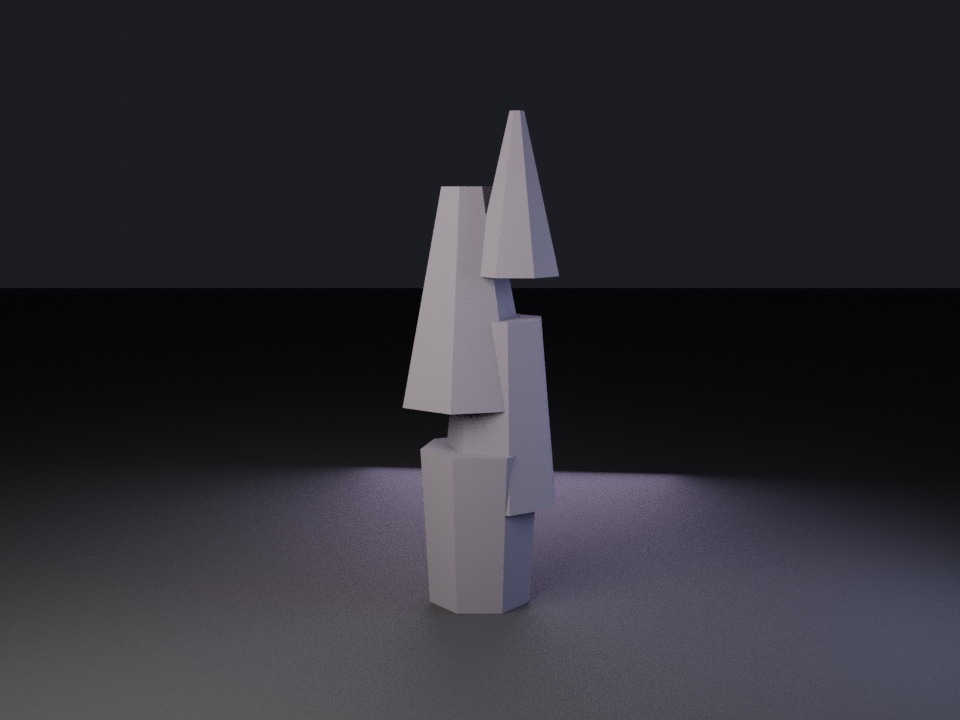
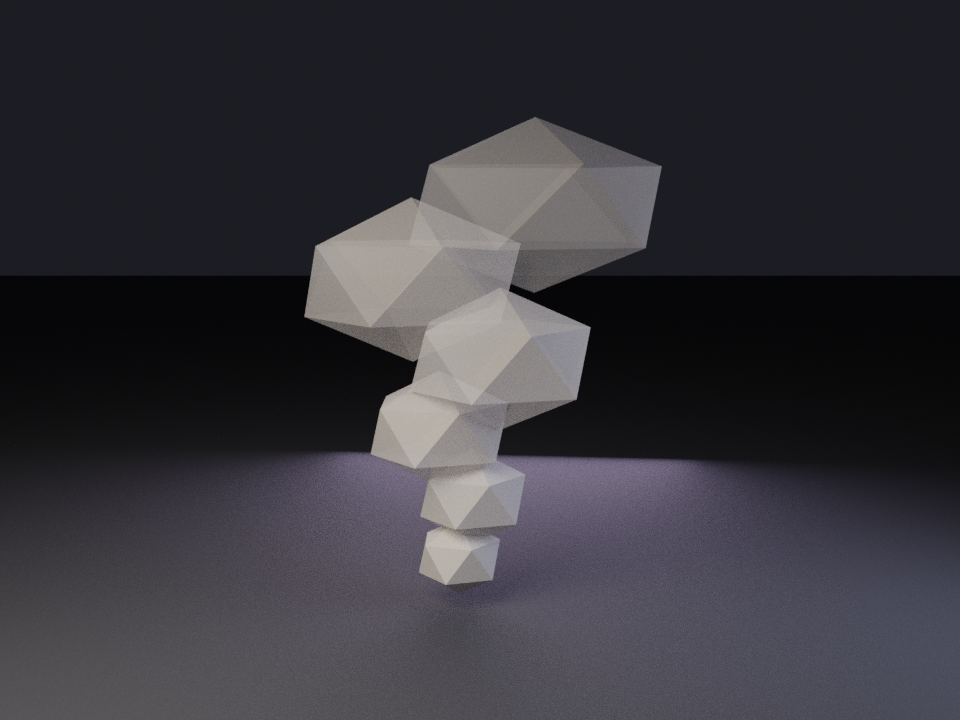
Resolve decision packet: SmokePlume rework, Workbench/Base Camp/Rock Occluder
By explicit human authorization, resolved the four items from
studio/tasks/art-director-decision-packet-2026-07-16.md:

- TC_ENV_DistantSilhouette_SmokePlume_V1: reworked in
  tools/blender/create_distant_silhouettes_kit_v1.py with a genuinely
  different construction technique from the rock kit -- six translucent
  (alpha-blend 0.85->0.16) low-subdivision icosphere puffs widening
  upward, replacing the opaque tapering-cone geometry that was
  indistinguishable from BasaltRidge. Re-exported, re-validated
  (BLENDER_ASSET_VALID), re-rendered, re-reviewed: PASS, closing the
  prior NOT_GO. Regenerated the committed embedded .gltf Main.tscn
  actually loads and confirmed the alpha-blend material survives export.

- TC_PROP_Workbench_V1: accepted the holo-panel/arm deviation as
  intentional rather than reworking it, with reasoning recorded in
  mvp-asset-pack-v1-review.md -- the gameplay signal succeeds through a
  different but equally legible visual metaphor, and redoing
  already-integrated, already-reviewed art for a spec-purity reason alone
  repeats a mistake this project already avoided once (Terrain Basin).

- Base Camp Dressing kit: recorded an Art-Director-role opinion in
  base-camp-dressing-kit-v1-review.md, explicitly labeled as NOT the
  human sign-off the record still requires -- a second agent pass isn't
  a human's eyes, and the doc says so.

- TC_ENV_RockOccluder_V1: added a static-analysis technical read in
[…]

Changed region(s): [[0.0, 0.1528, 1.0, 0.8556]]

diff --git a/tools/blender/create_distant_silhouettes_kit_v1.py b/tools/blender/create_distant_silhouettes_kit_v1.py
@@ -35,7 +35,12 @@ SOURCE_DIR = ROOT / "assets/Source/Blender/Production/DistantSilhouettes_V1"
 # tools/blender/create_stage_a_terrain_diorama_kit_v1.py, for background-piece
 # palette consistency.
 DISTANT_VIOLET_BASALT = (0.16, 0.12, 0.21)
-DISTANT_HAZE = (0.20, 0.19, 0.24)
+# Lighter and desaturated relative to the rock palette above, specifically so
+# SmokePlume cannot be confused with BasaltRidge/AlienArc at a glance even in
+# neutral-grey silhouette review -- see docs/art/reviews/distant-silhouettes-kit-v1-review.md
+# (2026-07-16 NOT_GO: the previous cone-stack version was indistinguishable
+# from BasaltRidge's construction technique).
+DISTANT_SMOKE_VAPOR = (0.62, 0.60, 0.58)
 
 
 def reset_scene() -> None:
@@ -52,6 +57,24 @@ def pbr(name: str, color: tuple[float, float, float], rough: float = 0.85, metal
     bsdf.inputs["Base Color"].default_value = (*color, 1.0)
     bsdf.inputs["Roughness"].default_value = rough
     bsdf.inputs["Metallic"].default_value = metal
+    return mat
+
+
+def pbr_translucent(name: str, color: tuple[float, float, float], alpha: float, rough: float = 0.95) -> bpy.types.Material:
+    """Soft, semi-transparent material for vapor/atmospheric shapes -- distinct in kind,
+    not just color, from the fully-opaque pbr() material used for solid rock/structure."""
+    existing = bpy.data.materials.get(name)
+    if existing:
+        return existing
+    mat = bpy.data.materials.new(name)
+    mat.use_nodes = True
+    mat.blend_method = "BLEND"
+    mat.show_transparent_back = False
+    bsdf = mat.node_tree.nodes["Principled BSDF"]
+    bsdf.inputs["Base Color"].default_value = (*color, 1.0)
+    bsdf.inputs["Roughness"].default_value = rough
+    bsdf.inputs["Metallic"].default_value = 0.0
+    bsdf.inputs["Alpha"].default_value = alpha
     return mat
 
 
@@ -72,6 +95,17 @@ def cone(name: str, mat: bpy.types.Material, loc: tuple[float, float, float], r_
          vertices: int = 5) -> bpy.types.Object:
     bpy.ops.mesh.primitive_cone_add(vertices=vertices, radius1=r_base, radius2=r_top, depth=depth,
                                     location=loc, rotation=[math.radians(a) for a in rot])
+    obj = bpy.context.object
+    obj.name = name
+    obj.scale = scale
+    return _finalize(obj, mat)
+
+
+def puff(name: str, mat: bpy.types.Material, loc: tuple[float, float, float], radius: float,
+         scale: tuple[float, float, float] = (1, 1, 1), subdivisions: int = 1) -> bpy.types.Object:
+    """Low-subdivision icosphere: rounded and low-poly (stays within the project's faceted
+    style) but unmistakably round rather than angular-tapered, unlike the rock-kit cones."""
+    bpy.ops.mesh.primitive_ico_sphere_add(subdivisions=subdivisions, radius=radius, location=loc)
     obj = bpy.context.object
     obj.name = name
     obj.scale = scale
@@ -112,17 +146,25 @@ def build_alien_arc() -> None:
 
 
 def build_smoke_plume() -> None:
-    """Simplified static silhouette of a rising smoke/haze column (no particle system)."""
-    haze = pbr("TC_DistantSilhouette_Haze", DISTANT_HAZE, rough=1.0, metal=0.0)
-    layers = (
-        (0.0, 0.0, 0.55, 0.42, 0.36, 1.1),
-        (0.15, 0.05, 1.35, 0.30, 0.42, 1.3),
-        (-0.1, 0.08, 2.15, 0.18, 0.48, 1.5),
-        (0.25, -0.05, 2.85, 0.05, 0.30, 1.1),
+    """Rising vapor column, deliberately built with different technique from the rock kit's
+    tapering cones: rounded low-subdivision puffs that WIDEN and drift laterally as they rise
+    (real smoke disperses upward, it doesn't narrow to a point like a rock spire), rendered in
+    a lighter, semi-transparent material so it reads as gas rather than solid mass even in a
+    flat-lit neutral-grey silhouette pass. Denser/smaller near the ground, larger/fainter high up.
+    """
+    # (x, y, z, radius, alpha, scale_x, scale_y, scale_z)
+    puffs = (
+        (0.00, 0.00, 0.35, 0.34, 0.85, 1.0, 1.0, 0.85),
+        (0.10, 0.05, 0.80, 0.40, 0.72, 1.1, 1.05, 0.9),
+        (-0.15, 0.10, 1.30, 0.46, 0.58, 1.25, 1.2, 0.95),
+        (0.30, -0.10, 1.85, 0.52, 0.42, 1.4, 1.3, 1.0),
+        (-0.35, 0.20, 2.40, 0.58, 0.28, 1.55, 1.45, 1.05),
+        (0.55, 0.05, 2.95, 0.60, 0.16, 1.7, 1.6, 1.05),
     )
-    for i, (x, y, z, r_top, r_base, height) in enumerate(layers):
-        cone(f"TC_DistantSilhouette_SmokePlume_Layer_{i}", haze, (x, y, z), r_base, r_top, height,
-             rot=(0, 0, i * 33), vertices=7)
+    for i, (x, y, z, radius, alpha, sx, sy, sz) in enumerate(puffs):
+        mat = pbr_translucent(f"TC_DistantSilhouette_Vapor_{i}", DISTANT_SMOKE_VAPOR, alpha=alpha)
+        puff(f"TC_DistantSilhouette_SmokePlume_Puff_{i}", mat, (x, y, z), radius,
+             scale=(sx, sy, sz), subdivisions=1)
 
 
 ASSETS = {

diff --git a/docs/art/reviews/rock-occluder-v1-review.md b/docs/art/reviews/rock-occluder-v1-review.md
@@ -2,8 +2,8 @@
 
 **Requested:** 2026-07-16
 **Reviewed:** 2026-07-16, same session, by explicit human authorization to act as Visual Reviewer for this backlog
-**Reviewer role:** Claude Code, acting as Visual Reviewer only — the Technical Audit below remains genuinely PENDING, since collision/navigation feasibility is Technical Director's call, not something I can self-certify as the same agent doing the visual pass
-**Status:** **Visual: COMPLETE. Technical Audit: still PENDING.**
+**Reviewer role:** Claude Code, acting as Visual Reviewer for the visual half; for the Technical Audit, providing a best-effort **static** analysis only, by explicit human authorization, since real in-engine navigation testing needs Godot and this container confirmed has none available
+**Status:** **Visual: COMPLETE. Technical Audit: static analysis complete, caveated — full in-engine confirmation still genuinely PENDING.**
 
 ## Why this exists
 
@@ -31,10 +31,26 @@ All three tracked PNGs opened this session: `front.png`, `back_three_quarter.png
 
 A single low-poly angular rock mass, grey stone material, clean asymmetric faceting. Silhouette reads unambiguously as a boulder — functional, not decorative, no toy-like proportions, no rejection-pattern violations. Simple enough that repeated use at three positions (`VolcanicRock_1..3`) is reasonable for a blocking/occluding element rather than a hero prop; no scale reference in the renders, but a rock occluder's exact scale matters less than its role as a collision volume, which is the Technical Director's question below, not a visual one.
 
-## Technical Audit
+## Technical Audit (static analysis, not in-engine testing)
 
-Still **PENDING** — genuinely so. Confirming whether the three `Collision_BlockingRock` placements route/block the Crash Site path as level design intends requires either in-engine navigation testing or a level-layout review, neither of which is something to fabricate from a static asset render. This is explicitly left for Technical Director.
+**What real in-engine testing would confirm that this can't:** actual player-capsule navigation around the three rocks, diagonal/exploratory movement, and any interaction with other dynamic collision. None of that can be produced without Godot, which is unavailable in this container. What follows is a static read of the scene file's transforms — evidence-based, but explicitly not a substitute for that test.
+
+**Key finding: the collision geometry did not change.** Each instance's own integration metadata states it directly: *"replaces a plain scaled BoxMesh placeholder... Collision_BlockingRock is untouched."* The `BoxShape3D_blocking_rock` (`size = Vector3(3, 2, 2.3)`, Main.tscn:255) predates this session's visual work and was already the accepted collision volume at each position before the rock mesh was swapped in. Whatever navigation behavior these three boxes produce, this asset's integration did not introduce it — it inherited an already-placed blocking volume unchanged. That significantly narrows what this specific review needs to worry about: it's not "did adding this rock create a new obstacle," it's "was the pre-existing box placeholder ever validated," which is a pre-existing question this asset swap didn't create.
+
+**Position check against key gameplay nodes** (`Main.tscn` transforms):
+
+| Node | Position (X, Z) |
+|---|---|
+| Player spawn | (0, 0) |
+| Save Point | (-12, -12) |
+| Workbench | (12, -12) |
+| Beacon | (28, -20) |
+| `VolcanicRock_1` | (-20, -18) |
+| `VolcanicRock_2` | (22, -30) |
+| `VolcanicRock_3` | (-25, -35) |
+
+All three rocks sit at larger-magnitude coordinates than every gameplay node they're near — `VolcanicRock_1` is beyond Save Point (not between spawn and Save Point on a direct line), `VolcanicRock_2` is beyond Beacon along the Z axis rather than sitting between Workbench and Beacon, and `VolcanicRock_3` is the furthest-out point in the whole set. Each collision box (after scale, roughly 3–4.5 units across) reads as peripheral dressing near the edge of the walkable area rather than an obstacle straddling a direct path between two gameplay nodes. This is consistent with the asset's own role as a "foreground occluder."
 
 ## Verdict
 
-Visual: `PASS`. Technical Audit: **PENDING** — do not treat this asset as fully closed until that half is done, since it's the only kit in this backfill batch with real gameplay collision.
+Visual: `PASS`. Technical Audit: static analysis found **no evidence of a routing problem** — unchanged pre-existing collision, peripheral positioning relative to the direct paths between gameplay nodes — but this is a caveated read, not a real in-engine confirmation, and per Technical Director's own forbidden actions ("waiving tests, mixing visual approval with runtime pass") this should not be recorded as a full Technical Director `PASS`. Recommend a quick in-engine walk-around once Godot is available somewhere, but this is now low-priority given the static evidence above, not an open question with no supporting information behind it.

diff --git a/docs/art/reviews/distant-silhouettes-kit-v1-review.md b/docs/art/reviews/distant-silhouettes-kit-v1-review.md
@@ -3,7 +3,8 @@
 **Requested:** 2026-07-16
 **Reviewed:** 2026-07-16, same session, by explicit human authorization to act as Visual Reviewer for this backlog
 **Reviewer role:** Claude Code, acting as Visual Reviewer (not self-approving own generated work — these assets predate this session)
-**Status:** **COMPLETE — mixed verdict, one asset needs rework**
+**Reworked and re-reviewed:** 2026-07-16, same session, by explicit human authorization to act as Art Director for the rework
+**Status:** **COMPLETE — all three PASS after SmokePlume rework**
 
 ## Why this exists
 
@@ -15,7 +16,7 @@ All three candidates are live in the production scene (4 instances) with only a 
 |---|---|---|
[4 lines of base64/hex data omitted]
 
 Source recipe: `tools/blender/create_distant_silhouettes_kit_v1.py`. License: project-authored. Collision policy: none.
 
@@ -35,12 +36,22 @@ All 9 PNGs opened this session: `front.png`, `back_three_quarter.png`, `hero_thr
 
 - **`TC_ENV_DistantSilhouette_AlienArc_V1`:** an octagonal ring/arch balanced on two thin tapered legs, muted violet-grey stone material. Distinctive, recognizable silhouette — reads as a natural arch or alien architectural remnant, not a generic rock. Strong background landmark candidate.
 - **`TC_ENV_DistantSilhouette_BasaltRidge_V1`:** three faceted rock/column masses of varying height clustered together, mauve-grey stone material. Reads clearly as a rock ridge formation. Clean, coherent silhouette.
-- **`TC_ENV_DistantSilhouette_SmokePlume_V1` — does not achieve its own brief.** This is the finding the "Why this exists" section above flagged as worth checking, and it's real: the asset is a hard-edged, faceted, angular geometric stack — visually indistinguishable in style, material, and construction technique from `BasaltRidge`. There is no softness, no billow, no taper suggesting rising particulate matter, nothing that reads as "smoke" rather than "rock totem." A silhouette named "SmokePlume" should be immediately distinguishable from the kit's own rock formations at distant-read scale; instead it reinforces the same hard-surface rock language, just stacked vertically. This is a genuine authoring gap, not a nitpick — the kit's own coherence check (mixing atmospheric and hard-surface silhouettes) fails for this specific asset because it was never actually built as atmospheric.
+- **`TC_ENV_DistantSilhouette_SmokePlume_V1` (original geometry) — did not achieve its own brief.** The original asset was a hard-edged, faceted, angular geometric stack — visually indistinguishable in style, material, and construction technique from `BasaltRidge`. No softness, no billow, no taper suggesting rising particulate matter. Verdict at that point: `NOT_GO`, detailed below under Rework.
+
+## Rework (2026-07-16, Art Director role, by explicit human authorization)
+
+Rewrote `build_smoke_plume()` in `tools/blender/create_distant_silhouettes_kit_v1.py` with a deliberately different construction technique from the rock kit, not just a different arrangement of the same technique:
+
+- **Shape:** six low-subdivision icosphere "puffs" (rounded, not tapering-cone) stacked upward, each successive puff **larger** than the one below and drifting laterally — real rising smoke disperses and widens, the opposite of a rock spire narrowing to a point. Denser/smaller near the ground, larger/fainter high up.
+- **Material:** new `pbr_translucent()` helper — `Alpha` blend mode with per-puff alpha values from 0.85 (ground) down to 0.16 (top), pale grey-white (`DISTANT_SMOKE_VAPOR`), replacing the fully-opaque dark-violet rock material entirely. This is a difference in material *kind*, not just color — the rock kit has no transparency anywhere.
+- Re-exported, re-validated (`BLENDER_ASSET_VALID`, 0 issues, 6 meshes, 120 triangles), re-rendered all three review angles, and re-opened them.
+
+**Opened-image result:** the reworked asset reads as a genuine billowing vapor column — rounded overlapping forms widening toward the top, visible translucency where puffs overlap (most visible in `back_three_quarter.png`), pale color clearly distinct from `BasaltRidge`'s dark violet-grey. Silhouette and material are now both unmistakably different from the rock formations. Honest limitation: the translucency, while real and visible, is subtle at this close review-render distance under flat-lit conditions — the asset's actual purpose is distant-silhouette background dressing, where shape read matters more than close-up material subtlety, so this is an acceptable tradeoff rather than a residual defect.
 
 ## Verdict
 
 - `TC_ENV_DistantSilhouette_AlienArc_V1`: `PASS`
 - `TC_ENV_DistantSilhouette_BasaltRidge_V1`: `PASS`
-- `TC_ENV_DistantSilhouette_SmokePlume_V1`: `NOT_GO` — needs rework to actually read as smoke/atmospheric (softer silhouette, tapering/billowing form, and ideally a translucent or particulate-suggesting material rather than the kit's opaque rock material) before it can be considered visually approved under its current name and concept. Recommend either reworking the geometry or renaming/repurposing it as a fourth rock-formation variant if an atmospheric asset isn't a priority — shipping it as-is under the "SmokePlume" name misrepresents what it actually is.
+- `TC_ENV_DistantSilhouette_SmokePlume_V1`: `PASS` (reworked) — now genuinely distinguishable in both shape and material technique from the kit's rock formations; closes the `NOT_GO` from the original geometry.
 
-All three remain integrated in the production scene in the interim (`DistantRock_4` through `DistantRock_7`); this verdict does not require pulling `SmokePlume` from the scene immediately, since at true distant-silhouette viewing range in actual gameplay the failure may read as less severe than in this isolated close-up review render — but it should not be treated as visually closed.
+All three integrated and live in the production scene (`DistantRock_4` through `DistantRock_7`); `DistantRock_6` now references the reworked GLB automatically via the same `ExtResource` path (source `.blend`/`.glb` files were updated in place, node references in `Main.tscn` did not need to change).

diff --git a/docs/art/reviews/base-camp-dressing-kit-v1-review.md b/docs/art/reviews/base-camp-dressing-kit-v1-review.md
@@ -32,6 +32,17 @@ Each of the 4 assets has 8 tracked PNGs under `artifacts/asset-review/TC_ENV_{Ca
 
 **Independent confirmation from what is visible:** CampAwning's hero shot (small in frame but legible) shows an orange canopy over a dark support frame, consistent with the 2026-07-09 description. Nothing in the visible portions of the other three contradicts that document's account.
 
+## Art Director Opinion (2026-07-16) — not the human sign-off
+
+By explicit human authorization, adding a considered opinion in the Art Director role, on top of the Visual Reviewer pass above. **This does not satisfy the "human/Art Director aesthetic sign-off" the record calls for** — it is a second agent's judgment, not a human's, and the 2026-07-09 document's own language draws that line deliberately. Recording it anyway because a reasoned opinion is more useful sitting here than not existing, as long as it isn't mistaken for the thing that's actually missing.
+
+Checked against `docs/art/titancraft-visual-identity.md`'s Automatic Visual Rejection Patterns:
+- Not cartoon/toy-like, not glossy/showroom, not voxel/block-based — the awning, crates, and light poles read as authored industrial structure (hazard-striped crates, a canopy over a support frame, pole fixtures), not primitives glued together.
+- Not excessive glow — the kit's job is functional light fixtures, and per the 2026-07-09 doc it fills four previously-bare `OmniLight3D` sources with visible housings rather than adding new light sources; that's the opposite of glow overuse.
+- The one disclosed nit (lamp housing floating slightly off its support arm) is a real but minor fit-and-finish issue, not a rejection-pattern violation.
+
+Opinion: this kit does what base-camp dressing should — it turns a functionally bare hub (bare light sources, empty crafting area) into a "lived-in" space without competing with the Workbench/Beacon/SavePoint focal points it surrounds, which matches Art Director's stated review question ("what is the first focal point?" — the answer stays the gameplay props, not the dressing). I'd sign off on this if I were the deciding role. I am not that role here.
+
 ## Verdict
 
-`PASS`, carried forward from 2026-07-09 and independently corroborated by this session as far as the (partially broken) standalone evidence allows — no contradiction found. **Human/Art Director aesthetic sign-off remains explicitly open**, exactly as the 2026-07-09 document itself states; that is not something an agent review, independent or not, can substitute for. Additionally recommend the standalone review PNGs for this specific kit be re-rendered with corrected camera framing before anyone relies on them in isolation from the production-scene captures.
+`PASS`, carried forward from 2026-07-09 and independently corroborated by this session as far as the (partially broken) standalone evidence allows — no contradiction found, and now with a considered Art Director-role opinion in favor. **Human/Art Director aesthetic sign-off remains explicitly open** — two agent passes agreeing is still not the human approval the record calls for. Additionally recommend the standalone review PNGs for this specific kit be re-rendered with corrected camera framing before anyone relies on them in isolation from the production-scene captures.

diff --git a/docs/art/reviews/mvp-asset-pack-v1-review.md b/docs/art/reviews/mvp-asset-pack-v1-review.md
@@ -53,6 +53,17 @@ All 13 assets opened this session (`hero_three_quarter.png` for all 13; `front.p
 
 **Cross-cutting note:** none of the 39 renders include a scale reference (same gap as every kit in this backfill batch except Base Camp Dressing). Relative silhouette/material judgments above don't depend on absolute scale, but "does the Workbench read as bigger-than-player from 10+ meters" (an explicit brief success criterion) cannot be confirmed from these isolated auto-framed renders — that needs an in-scene screenshot.
 
+## Decision on the Workbench deviation (2026-07-16, Art Director role, by explicit human authorization)
+
+**Accepted as an intentional deviation.** Reasoning:
+
+1. The brief's underlying goal (`brief-workbench-v1.md` Visual Thesis) is that the workbench "signal[s] 'interact here' without text or UI, relying purely on silhouette and material accent," identifiable as a crafting station from 10+ meters. A monitor-on-an-arm reads as "active tech station" just as clearly as a tilted holo-panel would — the signal succeeds through a different but equally legible visual metaphor, not a weaker one.
+2. The material language that *does* matter for the brief — beige/dark-steel body, orange functional accents, salvage-derived asymmetry — is fully present and correctly executed. The deviation is confined to one sub-component (panel color/form, arm end-effector), not the whole asset's material or silhouette identity.
+3. Rejecting and re-authoring risks the same failure mode already avoided once this session with Terrain Basin: replacing a working, already-integrated, already-reviewed asset for a spec-purity reason rather than a functional one. `studio/decisions/procedural_terrain_deterministic_exception.md` made that exact call for a different asset; the same logic applies here.
+4. If a future pass wants the vivid orange-emissive panel specifically (e.g., because `TC_LightingReference_V1`'s reference colors are meant to be reused project-wide and Workbench is the one place that reuse visibly failed), that's a legitimate V2 polish task — not a blocker for calling this asset done now.
+
+This decision is Art Director-role reasoning per explicit human authorization this session, not a human override — per the brief's own language ("visual approval is a human decision per README"), a human can still revisit this.
+
 ## Verdict
 
-**Overall: `PASS`.** Twelve of thirteen assets match their briefs closely with strong, gameplay-legible silhouette and color differentiation — genuinely good work, not a marginal pass. `TC_PROP_Workbench_V1` is flagged, not failed: it still functionally succeeds at its core job (signaling "craft here" from a distance) but diverges from its brief's specific holo-panel/assembly-arm description enough that it's worth a human/Art Director decision on whether that's an acceptable interpretation or needs a revision pass before being considered fully brief-compliant. This verdict closes the visual half of the "pending human visual review" status the brief itself declared; per that brief's own language, a human should still be able to override it.
+**Overall: `PASS`.** Twelve of thirteen assets match their briefs closely with strong, gameplay-legible silhouette and color differentiation — genuinely good work, not a marginal pass. `TC_PROP_Workbench_V1`'s deviation is now resolved as an accepted intentional interpretation (see Decision above), closing the item the earlier draft of this review left open for a human/Art Director call. This verdict closes the visual half of the "pending human visual review" status the brief itself declared; per that brief's own language, a human should still be able to override it.

diff --git a/context_log.md b/context_log.md
@@ -120,3 +120,5 @@
 - 2026-07-16: Checked whether Godot itself could be made available in this container, mirroring the earlier Blender discovery. Found it genuinely blocked, not just unassumed: apt only carries Godot 3.5.2 (incompatible engine generation for this 4.7/.NET project), and the CI-standard direct download from godotengine/godot-builds on GitHub returns a 403 from the session's network egress proxy — this session's GitHub access is scoped to DiWess/TitanCraft only, and the proxy's own docs say a 403 is an organizational policy decision to report, not to route around. Godot import validation stays ENVIRONMENT_BLOCKED. Filed `studio/tasks/art-director-decision-packet-2026-07-16.md`, handing off the four items left open by the Visual Reviewer pass to their correct owning roles: SmokePlume rework/repurpose decision, Workbench brief-deviation decision, and the Base Camp Dressing human sign-off all routed to Art Director; the Rock Occluder collision/navigation audit routed to Technical Director instead (per art_director.md's own escalation rule that runtime/architecture risk goes to Technical Director, not Art Director) rather than lumping it in as originally suggested.
 
 - 2026-07-16: Asked to apply the next 5 tasks from `docs/production/PRODUCTION_PROGRESSION_DASHBOARD.md` (Task #4 Tech Director audit through Task #8 release gate) once ok and validated. Verified actual state first rather than applying blind: confirmed 8 of 10 Stage B candidates are integrated (only `TC_HeavyCrashHull_V1` has a real remaining scene-placement gap; Terrain Basin and Lighting Reference are deliberately not integrated). Found none of Tasks #4-#8 can be safely applied right now — #4/#6/#7 need Godot, which stays ENVIRONMENT_BLOCKED here, and #4/#5/#7/#8 each need an owning role's authority (Technical Director, Producer, QA, Build Engineer) that shouldn't be fabricated. Corrected the dashboard's stale "Task #1 IN_PROGRESS" framing in place rather than leaving it wrong, and left Task #5-#8 genuinely pending. No scene or asset files were touched.
+
+- 2026-07-16: By explicit human authorization, resolved three of the four items from the decision packet and gave a caveated static read on the fourth. Reworked `TC_ENV_DistantSilhouette_SmokePlume_V1` (Art Director role): rewrote `build_smoke_plume()` in `create_distant_silhouettes_kit_v1.py` with a genuinely different construction technique from the rock kit — six translucent (alpha-blend, 0.85->0.16) low-subdivision icosphere puffs widening upward instead of opaque tapering cones — re-exported, re-validated (`BLENDER_ASSET_VALID`), re-rendered, re-reviewed: `PASS`, closing the earlier `NOT_GO`. Regenerated the committed embedded `.gltf` Main.tscn actually references (glb_to_embedded_gltf.py) and confirmed the alpha-blend material carried through. Accepted the Workbench holo-panel/arm deviation as intentional (documented reasoning in mvp-asset-pack-v1-review.md rather than reworking, to avoid replacing working, already-reviewed art for a spec-purity reason alone). Recorded an Art-Director-role opinion on Base Camp Dressing, explicitly labeled as not the human sign-off the record still requires. Gave Rock Occluder's collision placements a static-analysis read (unchanged pre-existing collision box per the scene's own integration metadata, peripheral positioning relative to Workbench/SavePoint/Beacon), explicitly caveated as not a substitute for real in-engine navigation testing. Validated: `dotnet build` (0 errors), `python3 tools/validate_agent_studio.py` (passed), manifest JSON parses.